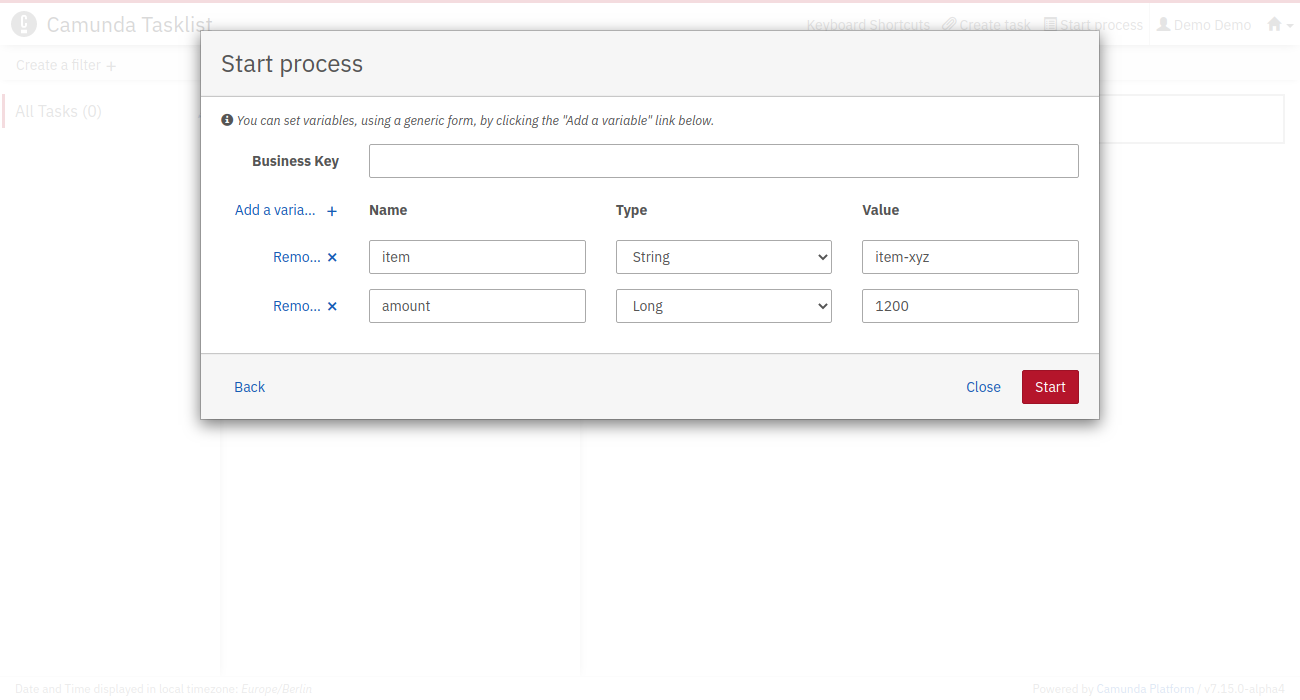
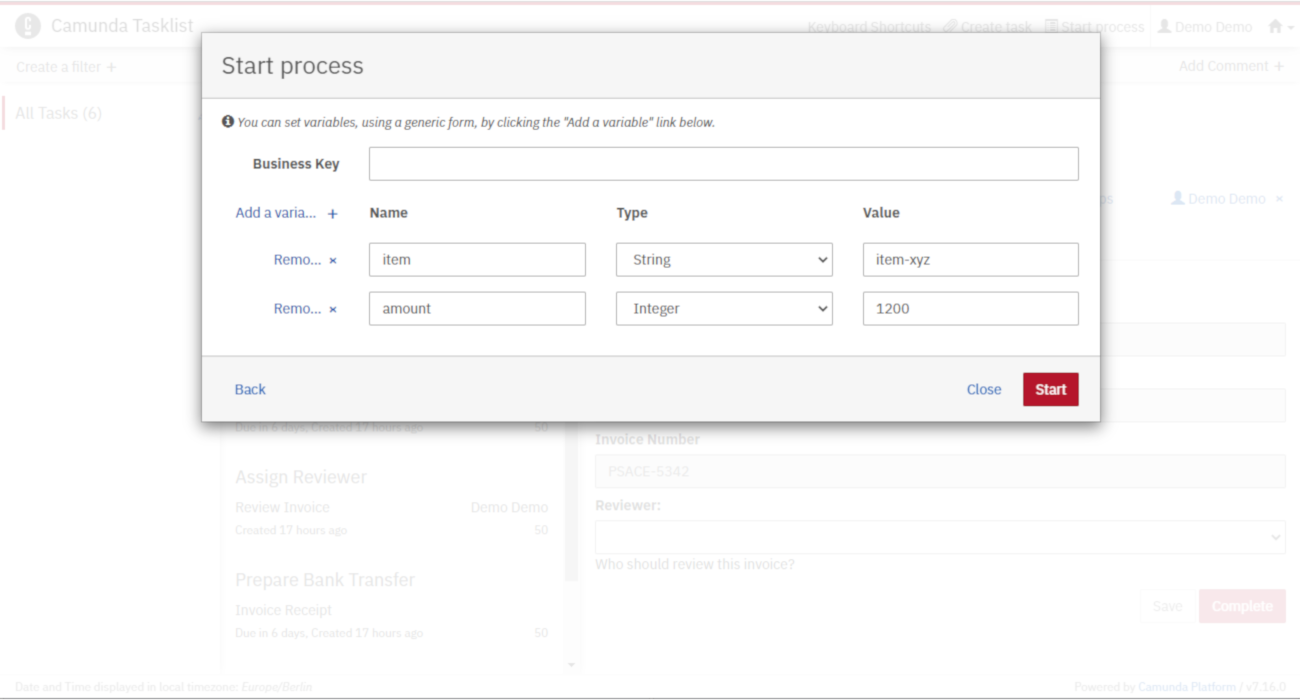
chore(get-started): correct data types in quickstart
* sets `amount`'s type to Integer

diff --git a/get-started/content/quick-start/deploy.md b/get-started/content/quick-start/deploy.md
@@ -44,7 +44,7 @@ You can leverage the Camunda REST API to start a new process instance by sending
 ## a) curl
 
 ```sh
-curl -H "Content-Type: application/json" -X POST -d '{"variables": {"amount": {"value":555,"type":"long"}, "item": {"value":"item-xyz"} } }' http://localhost:8080/engine-rest/process-definition/key/payment-retrieval/start
+curl -H "Content-Type: application/json" -X POST -d '{"variables": {"amount": {"value":555,"type":"integer"}, "item": {"value":"item-xyz"} } }' http://localhost:8080/engine-rest/process-definition/key/payment-retrieval/start
 ```
 
 In your worker, you should now see the output in your console.
@@ -63,7 +63,7 @@ The JSON Body should look like this:
 	"variables": {
 		"amount": {
 			"value":555,
-			"type":"long"
+			"type":"integer"
 		},
 		"item": {
 			"value": "item-xyz"
